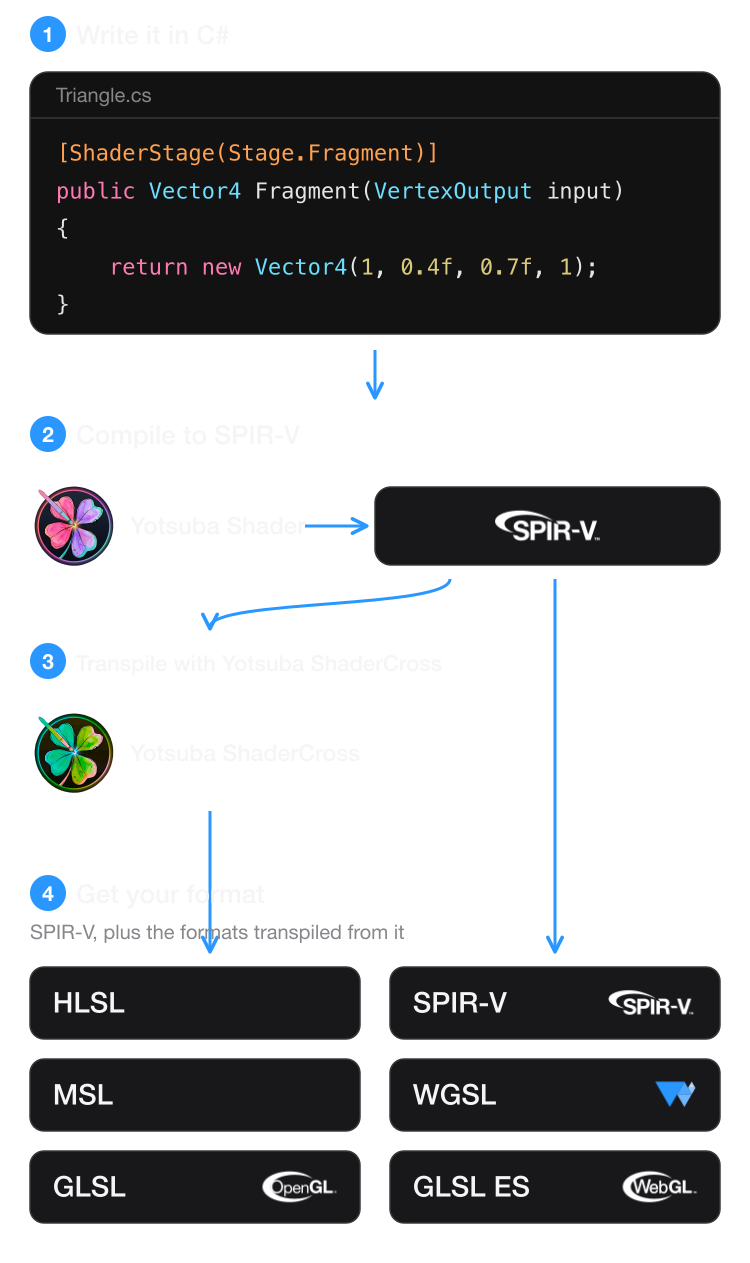
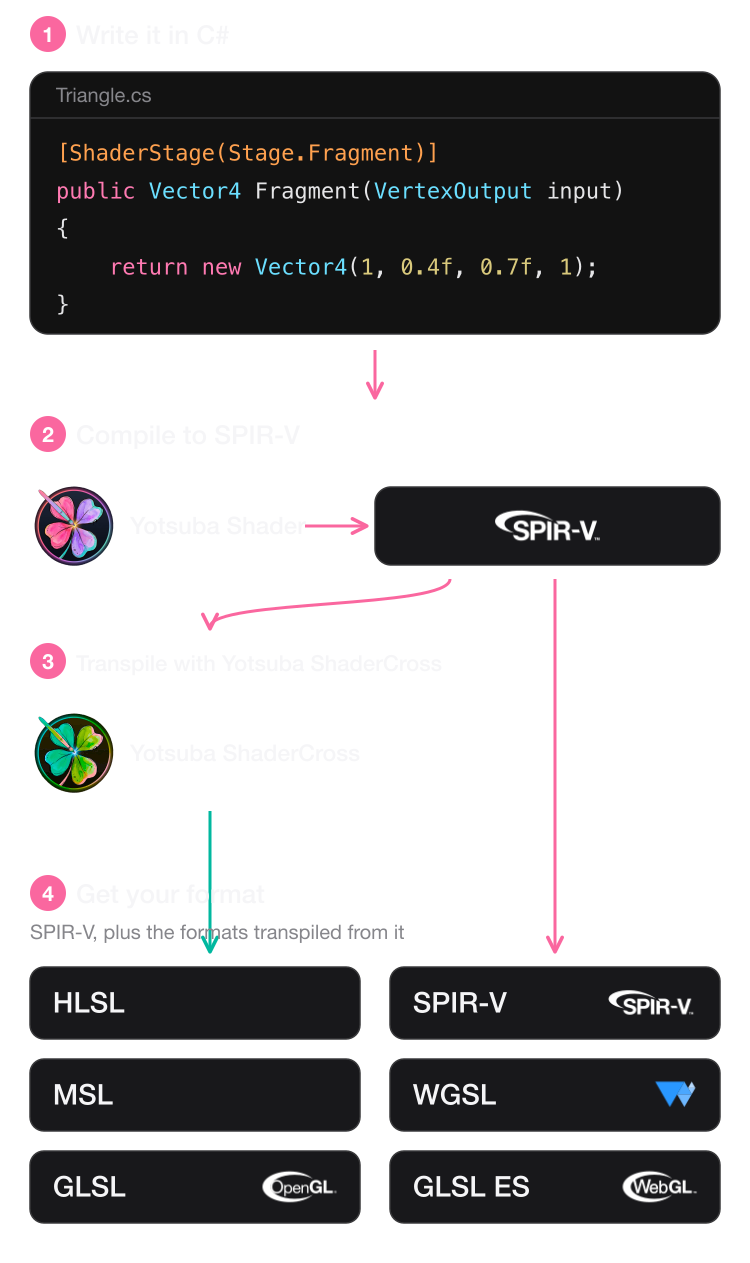
Update home hero layout, branding colors, and copy

diff --git a/src/static/css/site.css b/src/static/css/site.css
@@ -19,10 +19,10 @@
   --text-3: #a1a1a6;
   --text-4: #86868b;
 
-  --link: #2997ff;
-  --accent: #2997ff;
-  --accent-strong: #0071e3;
-  --accent-soft: rgba(41, 151, 255, 0.14);
+  --link: #FA679F;
+  --accent: #FA679F;
+  --accent-strong: #FA679F;
+  --accent-soft: rgba(250, 103, 159, 0.14);
   --brand-red: #ff3b30;
   --ok: #30d158;
   --warn: #ffb340;
@@ -95,7 +95,7 @@ code, kbd, pre { font-family: var(--mono); }
 .subnav-links::-webkit-scrollbar { display: none; }
 .subnav-links a { display: flex; align-items: center; height: 100%; color: var(--text-3); font-size: 14px; white-space: nowrap; border-bottom: 2px solid transparent; padding-top: 2px; transition: color .2s; }
 .subnav-links a:hover { color: var(--text); text-decoration: none; }
-.subnav-links a[aria-current] { color: var(--text); border-bottom-color: var(--text); }
+.subnav-links a[aria-current] { color: var(--text); border-bottom-color: #FA679F; }
 
 /* ----------------------------------------------------------------- layout */
 .container { max-width: calc(var(--max) + 44px); margin: 0 auto; padding: 0 22px; }
@@ -116,7 +116,7 @@ code, kbd, pre { font-family: var(--mono); }
 .mt-24 { margin-top: 24px; } .mt-32 { margin-top: 32px; } .mt-48 { margin-top: 48px; }
 
 /* ------------------------------------------------------------------- hero */
-.hero { position: relative; overflow: hidden; text-align: center; padding: 88px 0 0; background: linear-gradient(to bottom, #2a3347 0%, #141a26 45%, #05070b 85%, #000 100%); }
+.hero { position: relative; overflow: hidden; text-align: center; padding: 88px 0 0; background: linear-gradient(to bottom, #A771EB 0%, #141a26 45%, #05070b 85%, #000 100%); }
 .hero--compact { padding: 80px 0 0; }
 .hero--left { text-align: left; }
 .hero .container + .hero-rule { margin-top: 64px; }
@@ -130,7 +130,7 @@ code, kbd, pre { font-family: var(--mono); }
 .btn { display: inline-flex; align-items: center; gap: 6px; padding: 9px 20px; border-radius: 980px; font: 400 17px/1.2 var(--font); border: 1px solid transparent; cursor: pointer; transition: background .2s, color .2s; }
 .btn:hover { text-decoration: none; }
 .btn-primary { background: var(--accent-strong); color: #fff; }
-.btn-primary:hover { background: #0077ed; }
+.btn-primary:hover { background: #e6518a; }
 .btn-secondary { padding: 0; background: none; color: var(--link); border: 0; }
 .btn-secondary::after { content: "›"; font-size: 1.15em; margin-left: 1px; }
 .btn-secondary:hover { text-decoration: underline; }
@@ -493,7 +493,7 @@ code { font-size: .88em; background: rgba(255,255,255,.09); padding: .12em .4em;
 .pg-btn:hover { background: rgba(255,255,255,.08); }
 .pg-btn .icon { width: 15px; height: 15px; }
 .pg-btn--primary { background: var(--accent-strong); border-color: transparent; }
-.pg-btn--primary:hover { background: #0077ed; }
+.pg-btn--primary:hover { background: #e6518a; }
 .pg-btn:disabled { opacity: .55; cursor: progress; }
 .pg-banner { padding: 10px 20px; background: #1d1d1f; border-bottom: 1px solid var(--line); color: var(--text-3); font-size: 13.5px; line-height: 1.5; }
 .pg-banner code { font-size: .92em; }
@@ -577,7 +577,7 @@ code { font-size: .88em; background: rgba(255,255,255,.09); padding: .12em .4em;
 .playground .pg-btn { border-color: #3b3160; color: #f1ecff; }
 .playground .pg-btn:hover { background: rgba(176,140,255,.14); border-color: #5b4a99; }
 .playground .pg-btn--primary { border: 0; color: #fff; font-weight: 500; background: var(--accent-strong); transition: background .2s; }
-.playground .pg-btn--primary:hover { background: #0077ed; }
+.playground .pg-btn--primary:hover { background: #e6518a; }
 .playground .pg-btn--primary:disabled { opacity: .6; }
 .playground .pg-banner { background: rgba(176,140,255,.1); border-bottom: 1px solid #3a2f63; color: #c6bbe6; }
 .playground .pg-panes { background: transparent; }
@@ -712,12 +712,29 @@ main { position: relative; }
 .film.is-playing .film-play { opacity: 0; pointer-events: none; }
 @media (max-width: 760px) { .film { border-radius: 18px; margin-bottom: 36px; } .film-play { left: 14px; bottom: 14px; height: 44px; font-size: 15px; padding-right: 16px; } .film-ico { width: 32px; height: 32px; } }
 
-/* Home hero: the film, the title and the lead fit in one screen (the film is sized by the viewport height). */
-.hero--film { padding-top: 38px; }
-.hero--film .film { width: min(1040px, calc((100vh - 372px) * 16 / 9)); min-width: min(100%, 560px); margin-bottom: 30px; }
-.hero--film .lead { margin-top: 14px; }
-.hero--film .container + .hero-rule { margin-top: 44px; }
-@media (max-width: 760px) { .hero--film { padding-top: 24px; } .hero--film .film { width: 100%; min-width: 0; } }
+/* Home hero: establish the benefit and an immediate next step before asking visitors to watch. */
+.hero--film { padding-top: clamp(44px, 7vw, 88px); }
+.hero-intro { display: grid; grid-template-columns: minmax(0, .92fr) minmax(420px, 1.08fr); gap: clamp(36px, 6vw, 84px); align-items: center; text-align: left; }
+.hero-copy .eyebrow { color: #b7c7e5; letter-spacing: .01em; }
+.hero-copy .lead { margin: 20px 0 0; max-width: 600px; }
+.lead-u { text-decoration: underline; text-decoration-color: #FA679F; text-underline-offset: 5px; text-decoration-thickness: 2px; }
+.hero-copy .hero-actions { justify-content: flex-start; margin-top: 28px; }
+.hero-intro .film { width: 100%; min-width: 0; margin: 0; }
+.hero-proof { display: grid; gap: 10px; margin: 30px 0 0; padding: 0; list-style: none; color: var(--text-2); font-size: 14px; }
+.hero-proof li { display: flex; align-items: center; gap: 9px; }
+.hero-proof .icon { width: 16px; height: 16px; color: #FA679F; }
+.hero--film .container + .hero-rule { margin-top: clamp(48px, 7vw, 88px); }
+.section--home-value { padding-top: 64px; }
+.home-value-copy { max-width: 820px; margin: 0 auto; font-size: 19px; }
+.home-value-grid { display: grid; grid-template-columns: repeat(3, minmax(0, 1fr)); gap: 16px; margin-top: 42px; }
+.home-value-card { display: grid; grid-template-columns: 1fr auto; gap: 5px 12px; min-height: 164px; padding: 24px; border: 1px solid var(--line); border-radius: 20px; color: var(--text); background: linear-gradient(145deg, rgba(255,255,255,.06), rgba(255,255,255,.015)); transition: transform .2s ease, border-color .2s ease, background .2s ease; }
+.home-value-card:hover { color: var(--text); text-decoration: none; border-color: #59595d; background: linear-gradient(145deg, rgba(250,103,159,.14), rgba(255,255,255,.04)); transform: translateY(-3px); }
+.home-value-card strong { grid-column: 1 / -1; font-size: 19px; letter-spacing: -.015em; }
+.home-value-card span:not(.home-value-kicker) { color: var(--text-3); font-size: 14px; line-height: 1.45; }
+.home-value-card .icon { grid-column: 2; grid-row: 1; align-self: start; color: var(--link); }
+.home-value-kicker { color: #FA679F; font-size: 12px; font-weight: 600; letter-spacing: .06em; text-transform: uppercase; }
+@media (max-width: 860px) { .hero-intro { grid-template-columns: 1fr; text-align: center; } .hero-copy .lead { margin-inline: auto; } .hero-copy .hero-actions { justify-content: center; } .hero-proof { justify-content: center; justify-items: start; width: max-content; max-width: 100%; margin-inline: auto; text-align: left; } .hero-intro .film { max-width: 760px; margin-inline: auto; } .home-value-grid { grid-template-columns: 1fr; } .home-value-card { min-height: 0; } }
+@media (max-width: 760px) { .hero--film { padding-top: 56px; } .hero-proof { font-size: 13px; } .section--home-value { padding-top: 52px; } }
 
 /* Sponsor panel (donations) */
 .sponsor-panel { display: grid; grid-template-columns: 150px minmax(0, 1fr); gap: 44px; align-items: center; max-width: 900px; margin: 48px auto 0; padding: 48px 56px; background: var(--elev); border-radius: 28px; }
@@ -772,7 +789,7 @@ main { position: relative; }
 /* Email subscription (What's New) */
 .sub-form { display: flex; gap: 12px; flex-wrap: wrap; align-items: center; }
 .sub-form input[type="email"] { flex: 1 1 240px; min-width: 0; padding: 12px 16px; font: inherit; color: var(--text); background: var(--bg); border: 1px solid var(--line); border-radius: 12px; }
-.sub-form input[type="email"]:focus { outline: 2px solid var(--link, #0071e3); outline-offset: 1px; }
+.sub-form input[type="email"]:focus { outline: 2px solid var(--link, #FA679F); outline-offset: 1px; }
 .sub-label { position: absolute; width: 1px; height: 1px; overflow: hidden; clip: rect(0 0 0 0); white-space: nowrap; }
 .sub-trap { position: absolute; left: -9999px; width: 1px; height: 1px; opacity: 0; }
 .sub-msg { margin: 14px 0 0; font-size: 15px; }

diff --git a/playground/PlaygroundApi.cs b/playground/PlaygroundApi.cs
@@ -1,4 +1,4 @@
-#region MS-PL License - Copyright (c) 2026 Memphis Yomael
+#region MS-PL License - Copyright (c) 2026 Memphis Yomael Núñez Cruz - Dominican Republic
 /*
 ╔════════════════════════════════════════════════════════════════════════════════════╗
 ║                                                                                    ║
@@ -10,7 +10,7 @@
 ║  ╚═╝     ╚═╝╚══════╝      ╚═╝     ╚══════╝                                         ║
 ║                                                                                    ║
 ╠════════════════════════════════════════════════════════════════════════════════════╣
-║  Copyright (c) 2026 Memphis Yomael                                                 ║
+║  Copyright (c) 2026 Memphis Yomael Núñez Cruz - Dominican Republic                 ║
 ╠════════════════════════════════════════════════════════════════════════════════════╣
 ║                                                                                    ║
 ║  Microsoft Public License (MS-PL)                                                  ║

diff --git a/playground/Program.cs b/playground/Program.cs
@@ -1,4 +1,4 @@
-#region MS-PL License - Copyright (c) 2026 Memphis Yomael
+#region MS-PL License - Copyright (c) 2026 Memphis Yomael Núñez Cruz - Dominican Republic
 /*
 ╔════════════════════════════════════════════════════════════════════════════════════╗
 ║                                                                                    ║
@@ -10,7 +10,7 @@
 ║  ╚═╝     ╚═╝╚══════╝      ╚═╝     ╚══════╝                                         ║
 ║                                                                                    ║
 ╠════════════════════════════════════════════════════════════════════════════════════╣
-║  Copyright (c) 2026 Memphis Yomael                                                 ║
+║  Copyright (c) 2026 Memphis Yomael Núñez Cruz - Dominican Republic                 ║
 ╠════════════════════════════════════════════════════════════════════════════════════╣
 ║                                                                                    ║
 ║  Microsoft Public License (MS-PL)                                                  ║

diff --git a/playground/ProjectState.cs b/playground/ProjectState.cs
@@ -1,4 +1,4 @@
-#region MS-PL License - Copyright (c) 2026 Memphis Yomael
+#region MS-PL License - Copyright (c) 2026 Memphis Yomael Núñez Cruz - Dominican Republic
 /*
 ╔════════════════════════════════════════════════════════════════════════════════════╗
 ║                                                                                    ║
@@ -10,7 +10,7 @@
 ║  ╚═╝     ╚═╝╚══════╝      ╚═╝     ╚══════╝                                         ║
 ║                                                                                    ║
 ╠════════════════════════════════════════════════════════════════════════════════════╣
-║  Copyright (c) 2026 Memphis Yomael                                                 ║
+║  Copyright (c) 2026 Memphis Yomael Núñez Cruz - Dominican Republic                 ║
 ╠════════════════════════════════════════════════════════════════════════════════════╣
 ║                                                                                    ║
 ║  Microsoft Public License (MS-PL)                                                  ║

diff --git a/playground/References.cs b/playground/References.cs
@@ -1,4 +1,4 @@
-#region MS-PL License - Copyright (c) 2026 Memphis Yomael
+#region MS-PL License - Copyright (c) 2026 Memphis Yomael Núñez Cruz - Dominican Republic
 /*
 ╔════════════════════════════════════════════════════════════════════════════════════╗
 ║                                                                                    ║
@@ -10,7 +10,7 @@
 ║  ╚═╝     ╚═╝╚══════╝      ╚═╝     ╚══════╝                                         ║
 ║                                                                                    ║
 ╠════════════════════════════════════════════════════════════════════════════════════╣
-║  Copyright (c) 2026 Memphis Yomael                                                 ║
+║  Copyright (c) 2026 Memphis Yomael Núñez Cruz - Dominican Republic                 ║
 ╠════════════════════════════════════════════════════════════════════════════════════╣
 ║                                                                                    ║
 ║  Microsoft Public License (MS-PL)                                                  ║
